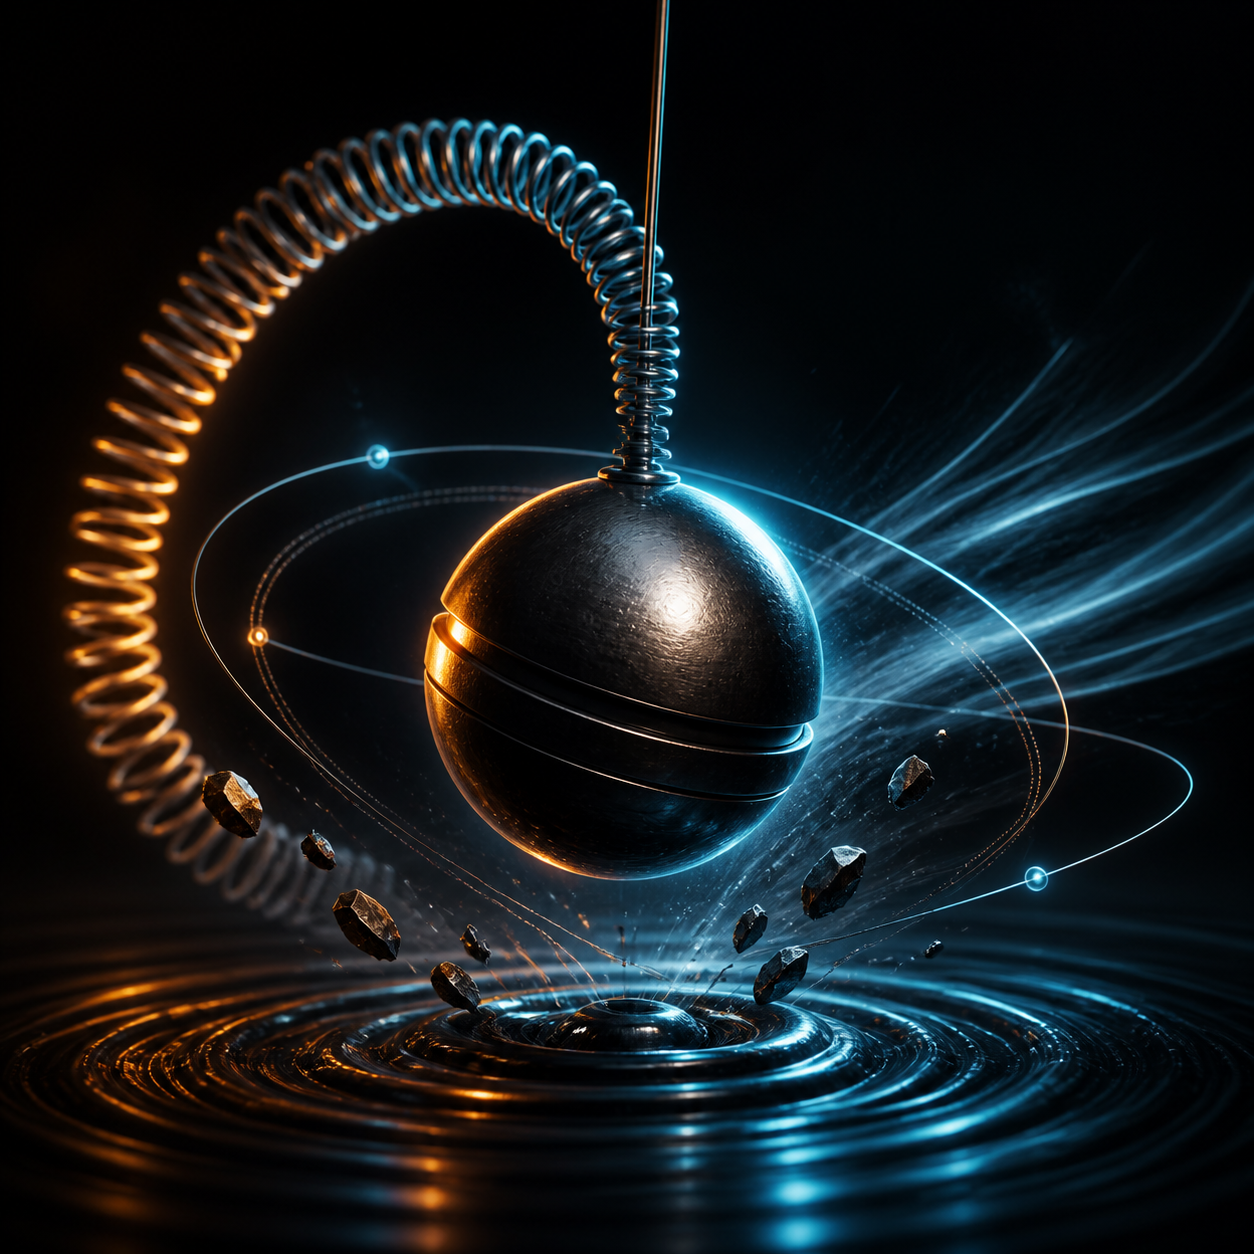
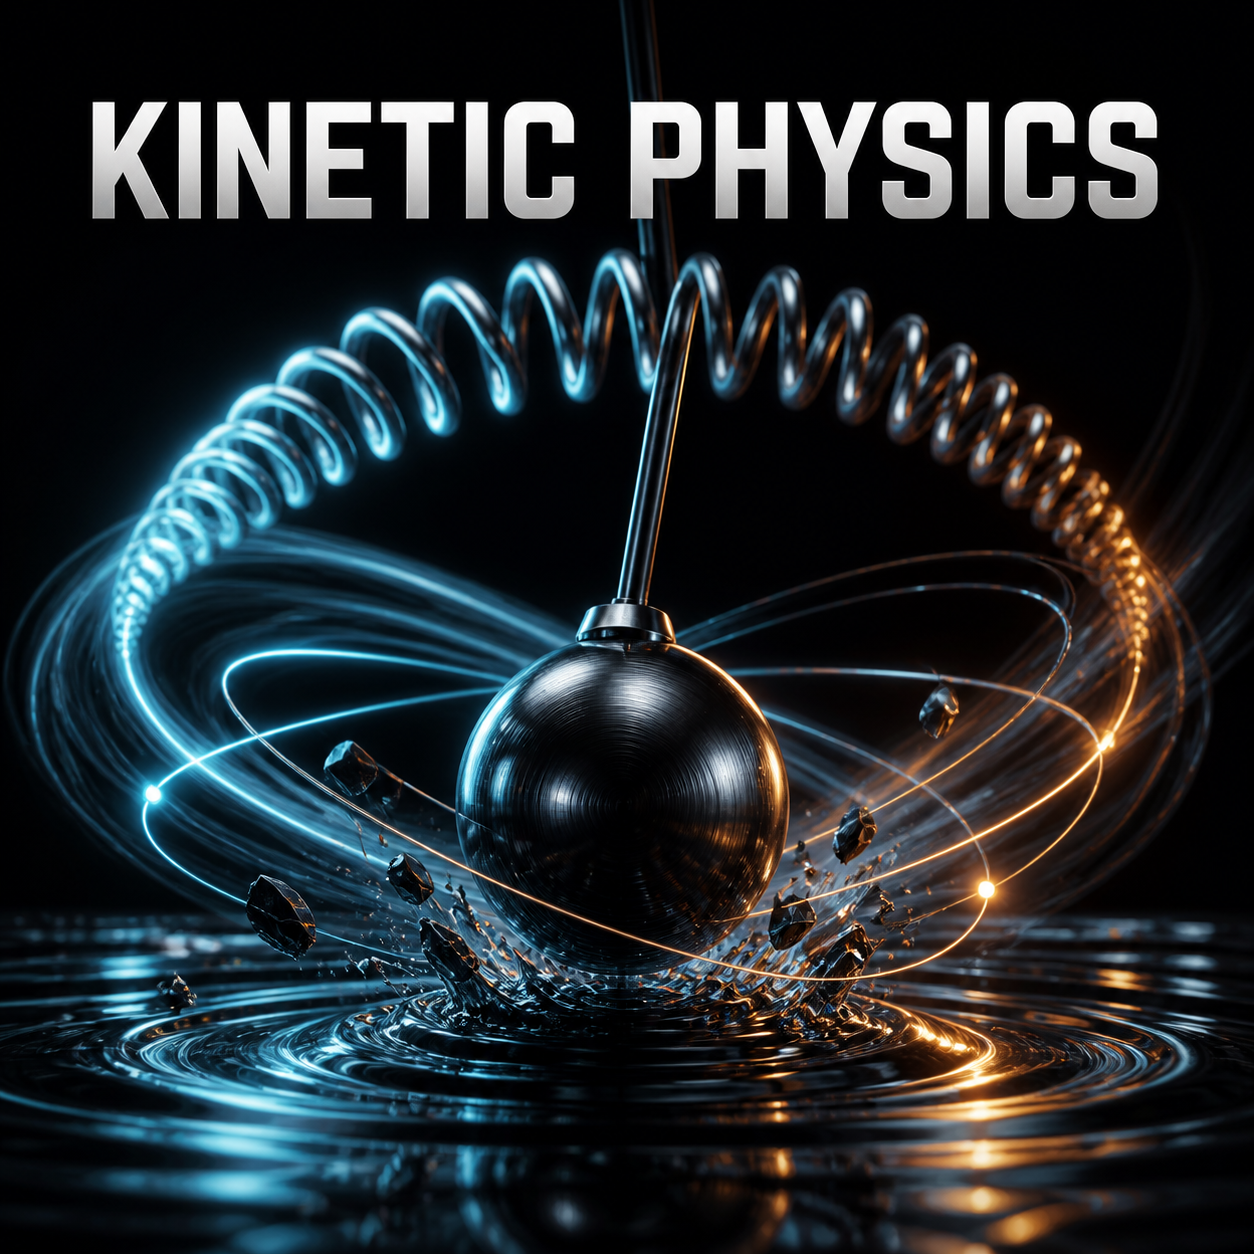
Require pack names on catalog images

diff --git a/README.md b/README.md
@@ -9,6 +9,10 @@ This repository is intended to host:
 
 It should not contain paid pack ZIP files or paid animation source bundles.
 
+## Catalog image requirements
+
+Every catalog image must display the pack's full name as clear, legible text. The title must use the exact name from `catalog.json` and remain readable at catalog-thumbnail size.
+
 ## Current catalog
 
 - Cinematic Motion Volume One: 25 object animations and 10 text animations.
